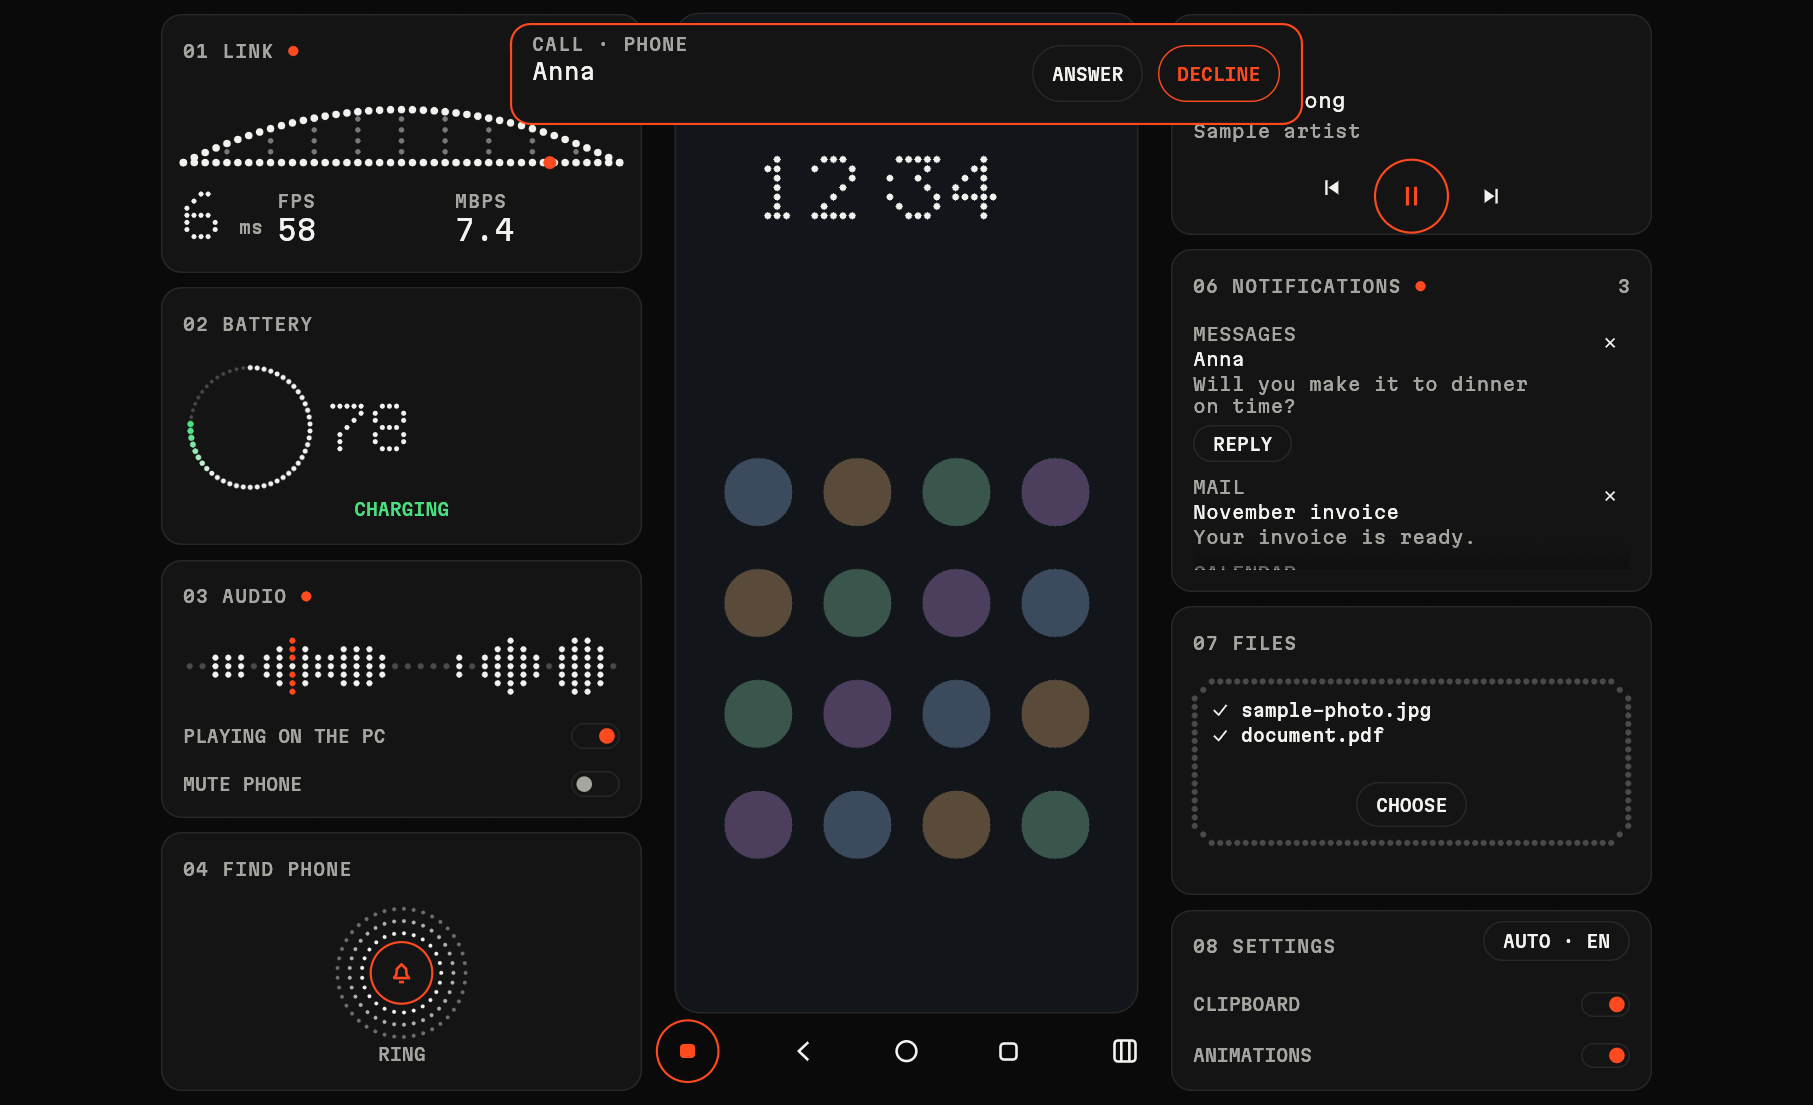
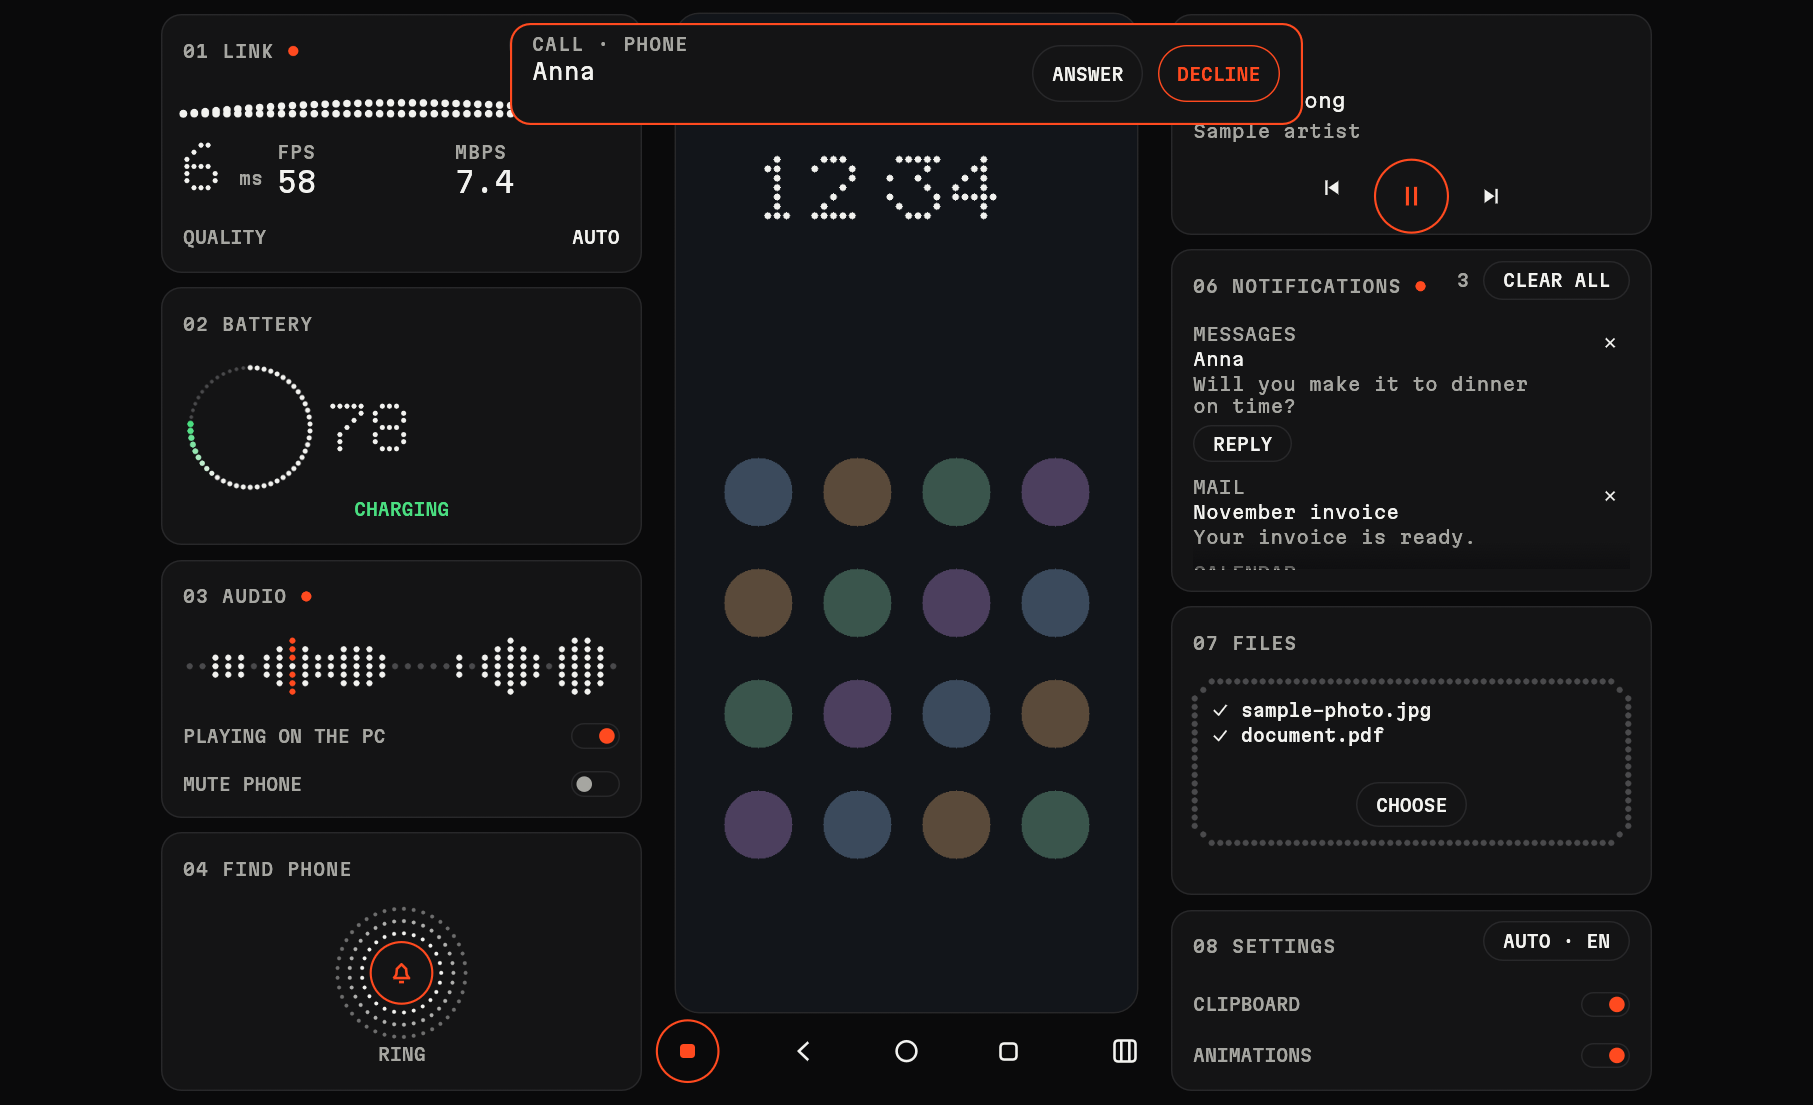
Prepara la versión 0.3.0
Claude-Session: https://claude.ai/code/session_01Ain5sav7ERkqkqhfG1tiJx

Changed region(s): [[0.0927, 0.0923, 0.3398, 0.2154], [0.834, 0.2462, 0.8958, 0.2769]]

diff --git a/README.md b/README.md
@@ -56,9 +56,10 @@ En Linux, tener el móvil a mano suele exigir dos herramientas: **KDE Connect** 
 
 | | Función | Detalle |
 |---|---|---|
-| **Pantalla** | Ver y controlar el móvil | Ratón, rueda y teclado; atrás, inicio y recientes; se adapta al girar el móvil |
+| **Pantalla** | Ver y controlar el móvil | Ratón, rueda y teclado; atrás, inicio y recientes, también con clic derecho, clic central y los botones laterales; se adapta al girar el móvil |
+| **Calidad** | Automática o fija | Auto ajusta los datos a lo que aguanta la red sin cortar la imagen; también Ahorro, Normal y Alta |
 | **Sonido** | Oír el móvil en la PC | Con interruptor para desactivarlo, y otro para silenciar el móvil mientras transmites |
-| **Avisos** | Notificaciones en el escritorio | Se pueden descartar y, si la app lo admite, responder desde la PC |
+| **Avisos** | Notificaciones en el escritorio | Se pueden descartar de una en una o todas a la vez y, si la app lo admite, responder desde la PC |
 | **Llamadas** | Ver quién llama | Aviso en la PC, también para llamadas de otras apps. Contestar desde la PC todavía no funciona en WhatsApp |
 | **Archivos** | Enviar en los dos sentidos | Arrastrando a la ventana, con progreso y confirmación de que se guardaron |
 | **Portapapeles** | Copiar y pegar entre dispositivos | Automático de la PC al móvil |
@@ -66,10 +67,13 @@ En Linux, tener el móvil a mano suele exigir dos herramientas: **KDE Connect** 
 | **Batería** | Nivel y carga | Anillo de puntos animado mientras carga |
 | **Buscar** | Hacer sonar el móvil | Suena como alarma durante 30 segundos |
 | **Idiomas** | Español, inglés y portugués | Sigue el idioma del sistema o el que elijas en Ajustes |
+| **Bandeja** | Siempre a mano | Al cerrar la ventana, Puente sigue conectado en la bandeja; puede arrancar solo al iniciar la sesión |
 
 Mientras compartes la pantalla con una PC conectada, el móvil no se apaga ni se bloquea (necesita **Control desde la PC** activado), y puedes cortar la transmisión desde cualquiera de los dos lados. Con `F2` o el botón de la barra ocultas las tarjetas para dejar solo la transmisión.
 
-En Linux también puedes enviar archivos desde la terminal a la ventana abierta:
+En Linux, cerrar la ventana deja a Puente en la bandeja del sistema, conectado al móvil. Desde su menú puedes volver a abrirlo, marcar **Iniciar con la sesión** o salir. Si tu barra no muestra iconos de bandeja, cerrar la ventana cierra la app como siempre.
+
+También puedes enviar archivos desde la terminal a la ventana abierta:
 
 ```bash
 puente --send foto.jpg documento.pdf

diff --git a/README.pt.md b/README.pt.md
@@ -56,9 +56,10 @@ No Linux, ter o celular à mão costuma exigir duas ferramentas: o **KDE Connect
 
 | | Função | Detalhe |
 |---|---|---|
-| **Tela** | Ver e controlar o celular | Mouse, roda e teclado; voltar, início e recentes; acompanha o celular quando ele gira |
+| **Tela** | Ver e controlar o celular | Mouse, roda e teclado; voltar, início e recentes, também com clique direito, clique do meio e os botões laterais; acompanha o celular quando ele gira |
+| **Qualidade** | Automática ou fixa | Auto ajusta os dados ao que a rede aguenta sem cortar a imagem; também Economia, Normal e Alta |
 | **Som** | Ouvir o celular no PC | Com um botão para desativar, e outro para silenciar o celular durante a transmissão |
-| **Notificações** | Na área de trabalho | Dá para dispensá-las e, se o app permitir, responder pelo PC |
+| **Notificações** | Na área de trabalho | Dá para dispensá-las uma a uma ou todas de uma vez e, se o app permitir, responder pelo PC |
 | **Chamadas** | Ver quem está ligando | Aviso no PC, também para chamadas de outros apps. Atender pelo PC ainda não funciona no WhatsApp |
 | **Arquivos** | Enviar nos dois sentidos | Arrastando para a janela, com progresso e confirmação de que foram salvos |
 | **Área de transferência** | Copiar e colar entre dispositivos | Automática do PC para o celular |
@@ -66,10 +67,13 @@ No Linux, ter o celular à mão costuma exigir duas ferramentas: o **KDE Connect
 | **Bateria** | Nível e carga | Anel de pontos animado enquanto carrega |
 | **Achar** | Fazer o celular tocar | Toca como alarme por 30 segundos |
 | **Idiomas** | Espanhol, inglês e português | Segue o idioma do sistema ou o que você escolher em Ajustes |
+| **Bandeja** | Sempre à mão | Ao fechar a janela, o Puente continua conectado na bandeja; pode iniciar sozinho com a sessão |
 
 Enquanto você compartilha a tela com um PC conectado, o celular não apaga nem bloqueia (precisa de **Controle pelo PC** ativado), e dá para parar a transmissão de qualquer um dos lados. Com `F2` ou o botão da barra você oculta os cartões e deixa só a transmissão.
 
-No Linux você também pode enviar arquivos pelo terminal para a janela aberta:
+No Linux, fechar a janela deixa o Puente na bandeja do sistema, conectado ao celular. Pelo menu dele você pode abri-lo de novo, marcar **Iniciar com a sessão** ou sair. Se a sua barra não mostra ícones de bandeja, fechar a janela fecha o app como antes.
+
+Você também pode enviar arquivos pelo terminal para a janela aberta:
 
 ```bash
 puente --send foto.jpg documento.pdf

diff --git a/README.en.md b/README.en.md
@@ -56,9 +56,10 @@ On Linux, keeping your phone at hand usually takes two tools: **KDE Connect** fo
 
 | | Feature | Details |
 |---|---|---|
-| **Screen** | See and control the phone | Mouse, wheel and keyboard; back, home and recents; follows the phone when it rotates |
+| **Screen** | See and control the phone | Mouse, wheel and keyboard; back, home and recents, also with right click, middle click and the side buttons; follows the phone when it rotates |
+| **Quality** | Automatic or fixed | Auto fits the data to what the network handles without cutting the picture; also Saver, Normal and High |
 | **Sound** | Hear the phone on the PC | With a switch to turn it off, and another to mute the phone while streaming |
-| **Notifications** | On your desktop | Dismiss them and, if the app allows it, reply from the PC |
+| **Notifications** | On your desktop | Dismiss them one by one or all at once and, if the app allows it, reply from the PC |
 | **Calls** | See who is calling | Alert on the PC, also for calls from other apps. Answering from the PC does not work with WhatsApp yet |
 | **Files** | Send both ways | By dragging onto the window, with progress and confirmation that they were saved |
 | **Clipboard** | Copy and paste between devices | Automatic from the PC to the phone |
@@ -66,10 +67,13 @@ On Linux, keeping your phone at hand usually takes two tools: **KDE Connect** fo
 | **Battery** | Level and charging | Animated ring of dots while charging |
 | **Find** | Make the phone ring | Rings like an alarm for 30 seconds |
 | **Languages** | Spanish, English and Portuguese | Follows the system language or the one you pick in Settings |
+| **Tray** | Always at hand | Closing the window keeps Puente connected in the tray; it can start on its own when you log in |
 
 While you share the screen with a connected PC, the phone does not turn off or lock (it needs **Control from the PC** turned on), and you can stop the stream from either side. Press `F2` or the button in the bar to hide the cards and keep only the stream.
 
-On Linux you can also send files from the terminal to the open window:
+On Linux, closing the window leaves Puente in the system tray, connected to the phone. From its menu you can open it again, tick **Start with the session** or quit. If your bar does not show tray icons, closing the window quits the app as before.
+
+You can also send files from the terminal to the open window:
 
 ```bash
 puente --send photo.jpg document.pdf
